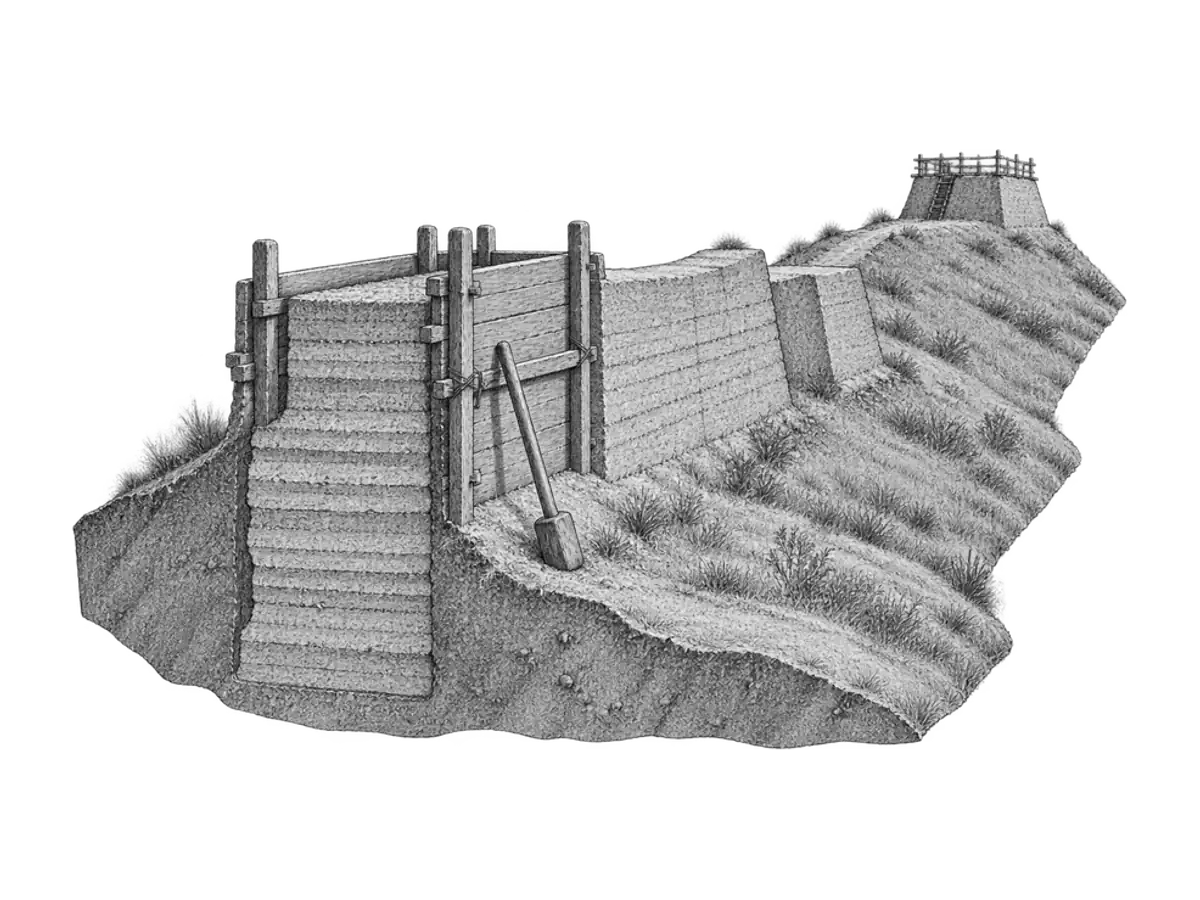
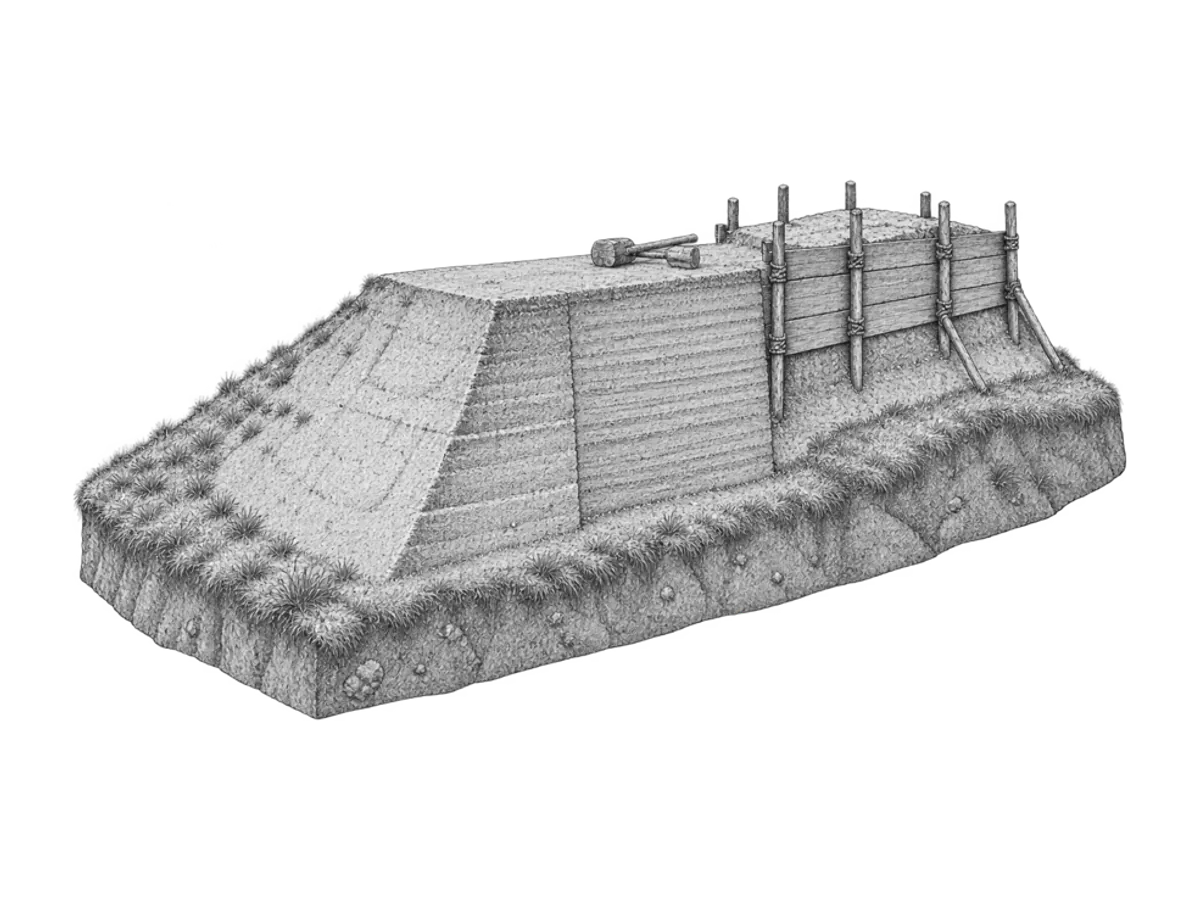
content(warring-states): rammed-earth wall redrawn (Codex; layered earth, plank formwork, no Ming brickwork) and placed in ch07 'Walls between the states'; duplicate whole-plate preset dropped and now rejected by validate for regional plates; shoot --keys drag check skips the bounds-locked whole-pla

diff --git a/scripts/shoot.ts b/scripts/shoot.ts
@@ -774,32 +774,41 @@ async function runKeys(s: Session, o: Options, report: RunReport): Promise<void>
   // Dragging the stage frees the camera (no preset lit); a preset takes it back.
   const [w, h] = o.size;
   await s.apply({ chapter: firstChapter, wait: 1200 });
-  const first = keymap.find((k) => k.type === 'preset');
+  const presetKeys = keymap.filter((k) => k.type === 'preset');
   // An engine that lights its own VIEW button (MathScene's model switch) has no camera to free.
   const engineOwned = await page.evaluate(() => document.querySelector('[data-presets="engine"]') !== null);
+  let first = presetKeys[0];
   if (first && !engineOwned) {
     // Light a preset first: a chapter's own view is not a preset (TimeScene has geographic presets only), so "free" must be earned by the drag.
-    await page.keyboard.press(first.key);
-    await page.waitForTimeout(2400);
-    await page.mouse.move(w * 0.5, h * 0.5);
-    await page.mouse.down();
-    await page.mouse.move(w * 0.5 + 140, h * 0.5 + 30, { steps: 8 });
-    await page.mouse.up();
+    // A regional plate's whole-plate view sits at minimum zoom inside its bounds lock, so a drag there cannot move the camera:
+    // that view is skipped and the drag is tried from the next preset.
     let free = false;
-    // Orbit damping is frame-count based: software GL at ~10 fps takes several seconds to settle before the camera is written back.
-    for (let i = 0; i < 64 && !free; i++) {
-      await page.waitForTimeout(250);
-      free = (await s.state()).preset === null;
+    for (const k of presetKeys.slice(0, 3)) {
+      first = k;
+      await page.keyboard.press(k.key);
+      await page.waitForTimeout(2400);
+      await page.mouse.move(w * 0.5, h * 0.5);
+      await page.mouse.down();
+      await page.mouse.move(w * 0.5 + 140, h * 0.5 + 30, { steps: 8 });
+      await page.mouse.up();
+      // Orbit damping is frame-count based: software GL at ~10 fps takes several seconds to settle before the camera is written back.
+      for (let i = 0; i < 64 && !free; i++) {
+        await page.waitForTimeout(250);
+        free = (await s.state()).preset === null;
+      }
+      const locked = !free && (await page.evaluate(() => document.querySelector('[data-region-plate]') !== null));
+      if (!locked) break;
     }
+    const target = first;
     const lit = await page.evaluate(() => document.querySelectorAll('[data-preset][aria-pressed="true"]').length);
     record({ key: 'drag', type: 'camera', name: 'free-camera', ok: free && lit === 0, note: free && lit === 0 ? '' : `preset=${(await s.state()).preset} lit=${lit}` });
-    await page.keyboard.press(first.key);
+    await page.keyboard.press(target.key);
     // Wait for the preset to be applied (state and lit button), not a fixed delay: the heaviest models stall software GL.
     const back = await until(
-      async () => (await s.state()).preset === first.name && (await page.evaluate((n) => document.querySelector(`[data-preset="${n}"]`)?.getAttribute('aria-pressed'), first.name)) === 'true',
+      async () => (await s.state()).preset === target.name && (await page.evaluate((n) => document.querySelector(`[data-preset="${n}"]`)?.getAttribute('aria-pressed'), target.name)) === 'true',
     );
     const st = await s.state();
-    record({ key: first.key, type: 'camera', name: 'preset-after-free', ok: back, note: back ? '' : `preset=${st.preset}` });
+    record({ key: target.key, type: 'camera', name: 'preset-after-free', ok: back, note: back ? '' : `preset=${st.preset}` });
   }
 }
 

diff --git a/src/engines/time-scene/schema.ts b/src/engines/time-scene/schema.ts
@@ -621,6 +621,10 @@ export function timeSceneTopicIssues(topic: TopicLike, data: TimeSceneGeoData, r
     else if (land.type !== 'Topology' || !land.objects?.[region.land]) issues.push({ level: 'error', file: geo(region.land), message: `basemap.region.land: expected a TopoJSON with an object "${region.land}"` });
     else if (!(land.objects[region.land]!.geometries ?? []).some((g) => g.properties?.kind === 'land'))
       issues.push({ level: 'error', file: geo(region.land), message: `basemap.region.land: object "${region.land}" has no kind: land geometry` });
+    // The engine's first preset on a regional plate is already the whole plate (key 1, "Whole plate" / "全图").
+    for (const p of data.presets?.presets ?? [])
+      if (p.id === 'plate' || p.id === 'whole-plate' || p.label.en === 'Whole plate' || p.label.zh === '全图')
+        issues.push({ level: 'error', file: 'data/presets.json', message: `preset "${p.id}": a regional plate already has a built-in whole-plate preset (key 1); drop this one` });
     if (region.rivers) {
       const raw = readGeo(region.rivers);
       if (raw === undefined) issues.push({ level: 'error', file: geo(region.rivers), message: 'basemap.region.rivers: file not found' });

diff --git a/src/engines/time-scene/View.tsx b/src/engines/time-scene/View.tsx
@@ -610,7 +610,7 @@ export default function TimeSceneView({ topic, data, chapters, locale }: EngineV
   const pickedEntity = selectedEntity ? geo.entities.find((e) => e.id === selectedEntity) ?? null : null;
 
   return (
-    <div className="ts-stage" ref={stageRef} data-reference={reference || undefined} data-presenting={presenting || undefined}>
+    <div className="ts-stage" ref={stageRef} data-reference={reference || undefined} data-presenting={presenting || undefined} data-region-plate={region ? '' : undefined}>
       <GeoStage
         store={store}
         playhead={playhead}

diff --git a/docs/06-dev-guide.md b/docs/06-dev-guide.md
@@ -647,7 +647,7 @@ basemap:
 - schema：`basemapOptions` 要么 `local` 要么 `region`（`regionBasemap`：`bounds` 西 < 东、南 < 北，`maxBounds` 必须包住 `bounds`）。
 - **陆地**：`base` 的 `land` source 开始是空的，load 后 fetch `public/geo/<land>.json`（TopoJSON，对象 `<land>`：`kind: land` 填 `--land`、`kind: coast` 描海岸；裁切的直边不描）。**不加载** `land-50m.json`、`land-10m-sea.json`（那一层整个不进样式），没有 `borders` 图层、国名，B 键和图层面板里的"国界"都不出现。
 - **纸边**：图版以外整个世界铺一层纸色（`--paper`，`kind: frame`，挖掉 `bounds`），图版边上一条 0.8 px `--line` 图廓线（`kind: edge`），两层在所有 GL 图层之上（`lib/region.ts` `regionFrame`）。海仍是 `--water`，只在图版内。
-- **镜头**：`maxBounds` 按舞台宽高比放宽（`aspectBounds`，Mercator 下只放不收，resize 时重设），所以缩到最小 = 整张图版刚好装下、四周是纸，再怎么拖、缩都到不了世界别处。第一个预设（键 1，id 仍是 `world`）变成"全图 / Whole plate"（`plateCamera()` = `cameraForBounds(bounds)`）；`theatre` 照旧套住全部数据。章节镜头 zoom 比最小值还小时被夹到最小值。
+- **镜头**：`maxBounds` 按舞台宽高比放宽（`aspectBounds`，Mercator 下只放不收，resize 时重设），所以缩到最小 = 整张图版刚好装下、四周是纸，再怎么拖、缩都到不了世界别处。第一个预设（键 1，id 仍是 `world`）变成"全图 / Whole plate"（`plateCamera()` = `cameraForBounds(bounds)`）；`theatre` 照旧套住全部数据。章节镜头 zoom 比最小值还小时被夹到最小值。`data/presets.json` **不要再写“全图”预设**（否则出两个“全图”按钮，`pnpm validate` 报错）。舞台带 `data-region-plate`：全图视角在最小缩放 + 边界锁里拖不动是正确行为，`pnpm shoot --keys` 的拖动检查遇到它就改从下一个预设拖。
 - **经纬网**：只画在图版内，5°（图版跨度 ≤ 60°）或 10° 一条（`regionGraticule`）。
 - **河流**（`rivers`）：`public/geo/<rivers>.json`，GeoJSON 或 TopoJSON（取第一个对象）的 LineString / MultiLineString，`properties: { id, name: { en, zh }, from?, to?, reconstructed?, label?: [lng, lat] }`（schema `riversFile`：id 唯一、`to` 晚于 `from`）。`[from, to)` = 这条河道存在的年代（`lib/rivers.ts` `riversAt`）：改道写成两条（前 602 年以前的黄河 `to: "-0602"`），消失的河写 `to`（济水），今天的下游写 `from: "1855"`（先秦主题里永远不出现）。陆地之上、数据之下两层 hairline（`--rivers`，0.6–1.3 px 随缩放）：实线 / `reconstructed: true` 虚线 [4, 2.5]；按播放头时间过滤，只在可见集合变化时 `setFilter`。**河名**（`stages/geo/rivers.ts`）：每条可见河道一个斜体小字（`--ink-3`，`--land` 光晕），钉在 `label` 或最长一段的中点、沿河倾斜（Mercator 保角，角度每条算一次，保持正立），给引线标注和领土名称让位、彼此避让；跟领土名称一起由 **N** 开关（不受 L 影响）。图例出"河流（虚线：复原河道）"。
 - 其他主题不受影响：样式（`stages/geo/style.ts` `buildGeoStyle`）在没有 `region` 时和以前一样（`tests/time-scene/geo-style.test.ts`）。

diff --git a/docs/27-warring-states-content-spec.md b/docs/27-warring-states-content-spec.md
@@ -508,7 +508,8 @@ Codex 两轮草稿之后，Opus 做事实核对、客观性复核和中文定稿
 | 路线 | 26 条，标签统一加“（示意）” |
 | 来源 | 145 条（新增 S211–S244：《史记》各篇、《穀梁传》、赵背户村刑徒墓、李开元 2010、永录坑报道、辛德勇 2014、黄展岳） |
 | 名词 | 15 个（删 `tianxia`、`crossbow`、`tiger-tally`，加 `bianhu-qimin` 编户齐民） |
-| 配图 | 6 张进正文（战车、曾侯乙编钟、量器与竹简、弩机、虎符、都江堰）；`rammed-earth-wall` 未用：画面上的砖砌雉堞城楼像明长城，与 §3.2“不用明长城代替”相冲突，需要重画 |
+| 配图 | 7 张进正文（战车、曾侯乙编钟、量器与竹简、弩机、虎符、都江堰、夯土长城）。`rammed-earth-wall` 初稿画成了砖砌雉堞城楼（像明长城），2026-10-17 由 Codex 重画为版筑夯土墙（夯层、木板模子、木夯，无砖无楼），放进 07 章细看“诸侯的长城” |
+| 预设 | 删掉主题自带的 `plate`（全图）：区域图版的引擎内置第一预设已是“全图”，两个按钮重复。`pnpm shoot --keys` 的拖动检查在区域图版上跳过全图视角（最小缩放 + 边界锁，拖不动是正确行为），从下一个预设开始拖 |
 | 关键帧 | 11 帧、128 个要素、152 个环，零面积 0、自相交 0；相邻同色 0 |
 
 ### 11.2 数据来源与许可
